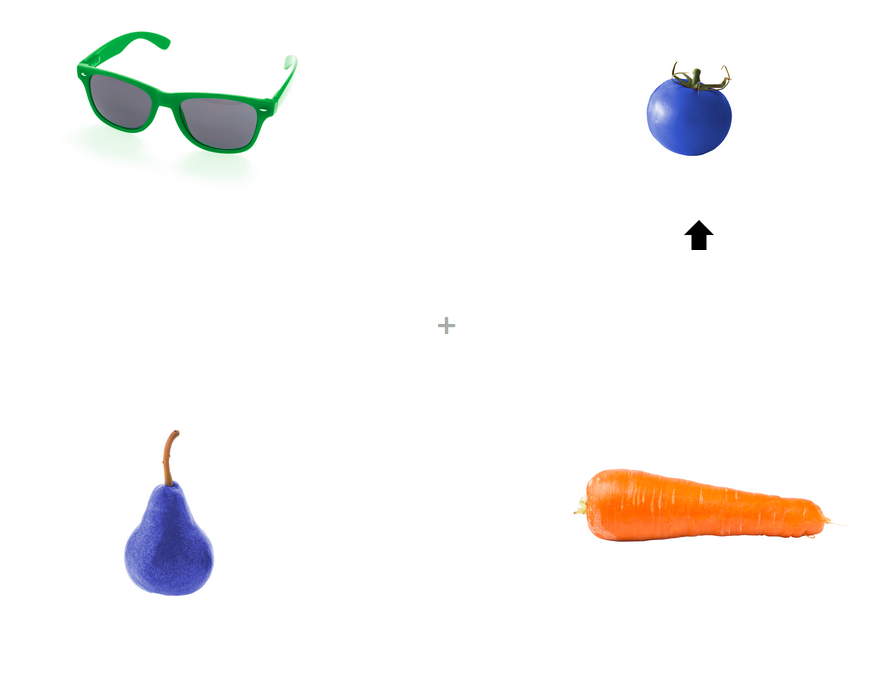
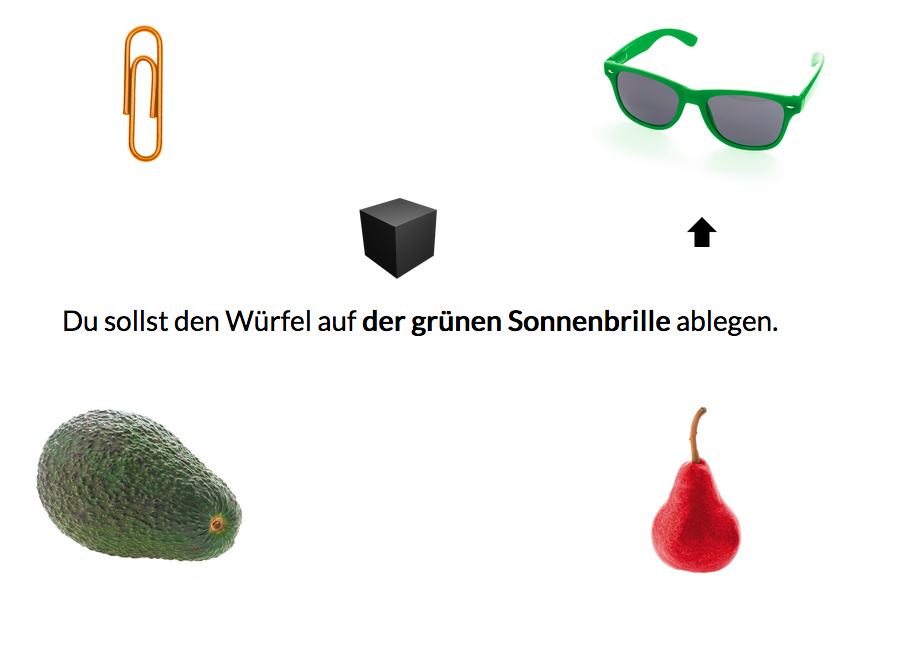
adjust instructions; and refine navigation for subject

diff --git a/index.html b/index.html
@@ -27,12 +27,17 @@
 			</main>
 
 			<script id="intro-templ" type="x-tmpl-mustache">
-				<div class="intro-templ info">
-					<article>
-						<h2>Herzlich Willkommen!</h2>
-						<p>Schön, dass Sie da sind.</p>
+				<div class="intro-templ">
+				  <div class="info"></div>
+					<div class="info">
+						<article>
+							<h2>Herzlich Willkommen!</h2>
+							<p>Schön, dass Sie da sind.</p>
+						</article>
+					</div>
+					<div class="button">
 						<button type="submit" id="start-exp-btn" class="continue-btn">Weiter</button>
-					</article>
+					</div>
 				</div>
 			</script>
 
@@ -43,6 +48,10 @@
 						<h2>Vorbereitung</h2>
 						<p>Zunächst einmal müssen wir das Mikrofon aussteuern. Wir bitten Sie dazu, die Farben und Namen der Gegenstände, die Sie gleich sehen, laut vorzulesen.</p>
 					</div>
+					<div class="button">
+						<button type="submit" class="continue-btn warm-up-btn">Weiter</button>
+					</div>
+
 				</div>
 			</script>
 
@@ -51,26 +60,26 @@
 					<h2>Einleitung</h2>
 					<p>Danke, dass Sie sich Zeit für unsere Studie nehmen.</p>
 
-					<p>Im Folgenden bitten wir Sie, ein kleines Spiel mit einem Partner zu spielen. Dafür sitzen Sie und Ihr Partner jeweils vor einem Bildschirm. Auf den Bildschirmen werden Sie beide vier Bilder sehen. Zwei der vier Bilder sollen von Ihrem Mitspieler hintereinander angeklickt werden. Dafür ist das Bild, das jeweils gerade angeklickt werden muss, in Ihrer Ansicht mit einem Pfeil markiert. Ihr Mitspieler sieht zwar auch alle Bilder, er sieht aber nicht den Pfeil – er weiß also nicht, welches Bild angeklickt werden soll. Ihre Aufgabe ist es, Ihrem Mitspieler mitzuteilen, welches Bild er mit der Maus auswählen soll.</p>
+					<p>Im Folgenden bitten wir Sie, ein kleines Spiel mit einem Partner zu spielen. Dafür sitzen Sie und Ihr Partner jeweils vor einem Bildschirm. Auf den Bildschirmen werden Sie beide vier Bilder sehen. In der Mitte zwischen den Bildern ist ein Würfel zu sehen, der von Ihrem Partner mit der Maus bewegt werden kann. Ihr Mitspieler soll den Würfel hintereinander auf zwei der Bilder ziehen. Dafür ist das Bild, auf das jeweils gerade der Würfel gezogen werden muss, in Ihrer Ansicht mit einem Pfeil markiert. Ihr Mitspieler sieht zwar auch alle Bilder, er sieht aber nicht den Pfeil – er weiß also nicht, auf welchem Bild er den Würfel ablegen soll. Ihre Aufgabe ist es, Ihrem Mitspieler mitzuteilen, auf welchem Bild er den Würfel ablegen soll.</p>
 
 					<p>Eine weitere Schwierigkeit gibt es, Sie dürfen dafür nur diese vorgegebenen Satzstrukturen verwenden:</p>
 
-					<p>Beim ersten Bild: »Du sollst auf die _________ klicken.«</p>
-					<p>Beim zweiten Bild: »Und jetzt sollst du auf die _________ klicken.«</p>
+					<p>Beim ersten Bild: »Du sollst den Würfel auf der _________ ablegen.«</p>
+					<p>Beim zweiten Bild: »Und jetzt sollst du den Würfel auf der _________ ablegen.«</p>
 
 					<p>Wobei in der Lücke jeweils der Gegenstand auf dem Bild und seine Farbe stehen. Der Satz wird zur Vereinfachung für Sie zusätzlich in der Mitte des Bildschirms eingeblendet. Also, wenn Sie zum Beispiel diese vier Bilder sehen:</p>
 
 					<img src="img/instr1.png" width="100%" style="border: 1px solid;"/>
 
-					<p>Dann sagen Sie: »Du sollst auf die blaue Tomate klicken.«</p>
+					<p>Dann sagen Sie: »Du sollst den Würfel auf der grünen Sonnenbrille ablegen.«</p>
 
-					<p>Im Anschluss an Ihre Instruktion wird Ihr Partner das Bild auswählen, das Sie benannt haben. Darauf erscheint ein Pfeil unter dem nächsten Bild:</p>
+					<p>Im Anschluss an Ihre Instruktion wird Ihr Partner den Würfel auf dem Bild ablegen, das Sie benannt haben. Darauf erscheint ein Pfeil unter dem nächsten Bild:</p>
 
 					<img src="img/instr2.png" width="100%" style="border: 1px solid;"/>
 
-					<p>Sie sollen daraufhin sagen: »Und jetzt sollst du auf die blaue Birne klicken.«</p>
+					<p>Sie sagen daraufhin: »Und jetzt sollst du den Würfel auf der grünen Avokado ablegen.«</p>
 
-					<p>Im Anschluss an Ihre Instruktion wird Ihr Partner wiederum das Bild auswählen, das Sie benannt haben, und neue Bilder erscheinen. Versuchen Sie, ganz natürlich mit Ihrem Partner zu kommunizieren. Er selbst soll nichts sagen, sondern sich nur auf die Auswahl der entsprechenden Bilder konzentrieren. Bitte kommunizieren Sie so, dass es Ihrem Partner möglichst leicht fällt, das richtige Bild schnell zu finden.</p>
+					<p>Im Anschluss an Ihre Instruktion wird Ihr Partner wiederum den Würfel auf das Bild ziehen, das Sie benannt haben, und neue Bilder erscheinen. Versuchen Sie, ganz natürlich mit Ihrem Partner zu kommunizieren. Er selbst soll nichts sagen, sondern sich nur auf die Auswahl der entsprechenden Bilder konzentrieren. Bitte kommunizieren Sie so, dass es Ihrem Partner möglichst leicht fällt, das richtige Bild schnell zu finden.</p>
 
 					<p>Im nächsten Abschnitt trainieren wir den Ablauf ein wenig.</p>
 
@@ -80,7 +89,6 @@
 
 			<script id="trial-templ" type="x-tmpl-mustache">
 				<div class="trial-templ">
-
 					<div id="target" class="drop-area">
 						<div id="target-content"></div>
 						<div id="arrow-target"></div>
@@ -98,6 +106,7 @@
 					<div id="sentence"></div>
 					<div id="cube"></div>
 					<div id="curtain"></div>
+					<div id="start-point">+</div>
 				</div>
 			</script>
 

diff --git a/js/views.js b/js/views.js
@@ -61,17 +61,16 @@ var initWarmUpView = function(itemsList) {
 	var rendered = Mustache.render(view.template);
 	$('#main').html(rendered);
 	var current = 0;
-	$(document).keydown(function(e){
-		if (e.keyCode == 32) {
-			if (itemsList[current] != null) {
-				$('#warmup-img').html("<img src='img/fruits/" + itemsList[current][0].toLowerCase() + "_" +  itemsList[current][1] + ".png' height=400px>" +
-					"<p class='warmup-phrase'><b>die " +  inflectNominative(itemsList[current][1], itemsList[current][0]) + " " + umlaut(itemsList[current][0]) + "</b></p>");
-				$('#warmup-info').html("")
-				current = current + 1;
-			} else { 
-				exp.getNextView();
-				$(document).unbind();
-			}
+	$(".warm-up-btn").on('click', function(){
+		$(".button").css("text-align", "center");
+		if (itemsList[current] != null) {
+			$('#warmup-img').html("<img src='img/fruits/" + itemsList[current][0].toLowerCase() + "_" +  itemsList[current][1] + ".png' height=400px>" +
+				"<p class='warmup-phrase'><b>die " +  inflectNominative(itemsList[current][1], itemsList[current][0]) + " " + umlaut(itemsList[current][0]) + "</b></p>");
+			$('#warmup-info').html('');
+			current = current + 1;
+		} else { 
+			exp.getNextView();
+			$(document).unbind();
 		}
 	});
 	return view;
@@ -88,6 +87,8 @@ var initTrialView = function(trialList, viewName) {
 	var targetSequence = false;
 
 	// init first trial
+	$("#curtain").show();
+	$("#start-point").show();
 	populateTrialLayout(trialList, current);
 	adjustLayoutPositions();
 	var competitorAdjective = trialList[current][4];
@@ -97,10 +98,13 @@ var initTrialView = function(trialList, viewName) {
 	competitorSentence(competitorAdjective + " " + competitorNoun);
 	targetSequence = true;
 	competitorSequence = false;
-	$("#curtain").fadeOut('fast');
 	setTimeout(function() {
-		$("#sentence").fadeIn('fast');
-	}, 1500);
+		$("#curtain").fadeOut('fast');
+		$("#start-point").fadeOut('fast');
+		setTimeout(function() {
+			$("#sentence").fadeIn('fast');
+		}, 1500);
+	}, 3000)
 
   // now, views are changed after dropping
 	$("#cube").draggable();
@@ -109,11 +113,12 @@ var initTrialView = function(trialList, viewName) {
 			if (trialList[current] != null) {
 				if (competitorSequence && $(this).is("#target")) {
 					$("#curtain").fadeIn('fast');
+					$("#start-point").fadeIn('fast');
 					$("#sentence").fadeOut('fast');
 					targetSequence = true;
 					setTimeout(function() {
-						$("#cube").css("top", "30%");
-						$("#cube").css("left", "45%");
+						$("#cube").css("top", "35%");
+						$("#cube").css("left", "47%");
 						populateTrialLayout(trialList, current);
 						adjustLayoutPositions();
 						var competitorAdjective = trialList[current][4];
@@ -123,6 +128,7 @@ var initTrialView = function(trialList, viewName) {
 						competitorSentence(competitorAdjective + " " + competitorNoun);
 						competitorSequence = false;
 						$("#curtain").fadeOut('fast');
+						$("#start-point").fadeOut('fast');
 						setTimeout(function() {
 							$("#sentence").fadeIn('fast');
 						}, 1500);

diff --git a/style.css b/style.css
@@ -116,10 +116,14 @@ body {
 }
 
 .info {
-	position: absolute;
 	padding: 20px;
-	left: 25%;
-	right: 25%;
+	margin: 0% 25% 0% 25%;
+	line-height: 25px;
+}
+
+.button {
+	padding-left: 20px;
+	margin: 0% 25% 0% 25%;
 	line-height: 25px;
 }
 
@@ -142,5 +146,15 @@ body {
 	background-image: url('img/cube.png');
 	background-size: contain;
 	top: 30%;
-	left: 45%;
+	left: 47%;
+}
+
+#start-point {
+  width: 100px;
+	height: 100px;
+	position: absolute;
+	top: 35%;
+	left: 50%;
+	color: #555;
+	font-size: 30px;
 }
